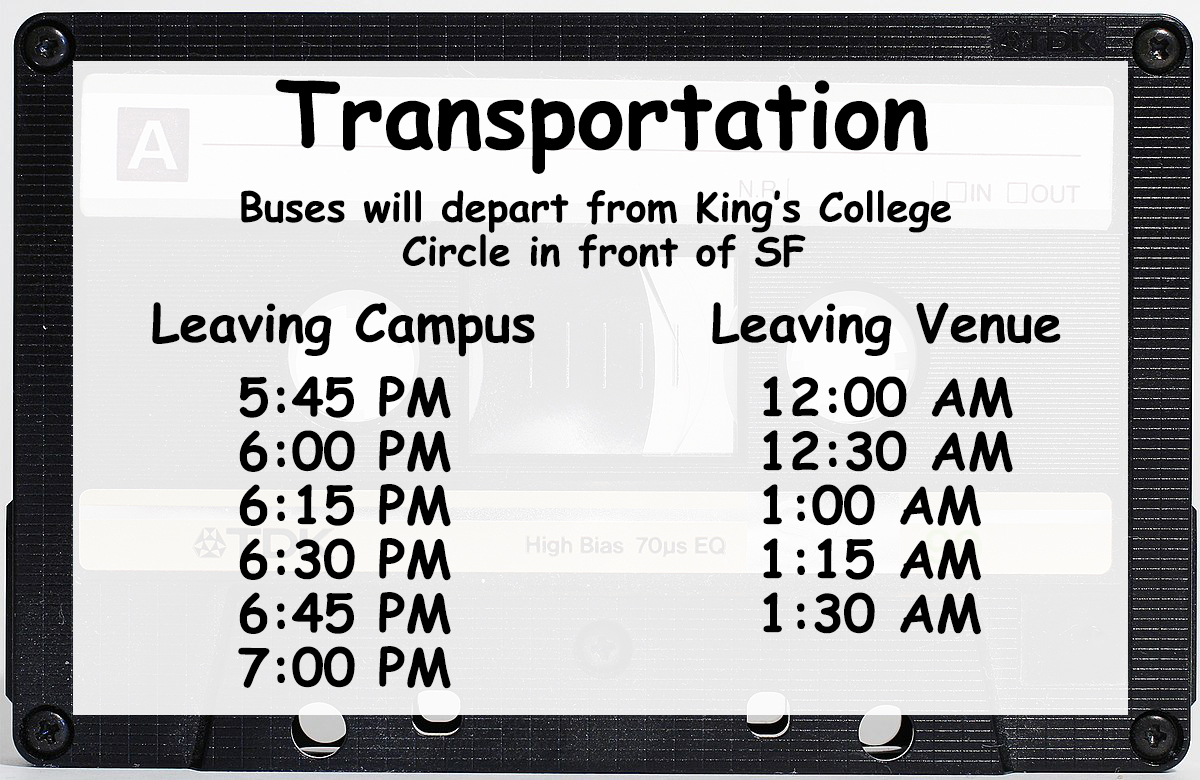
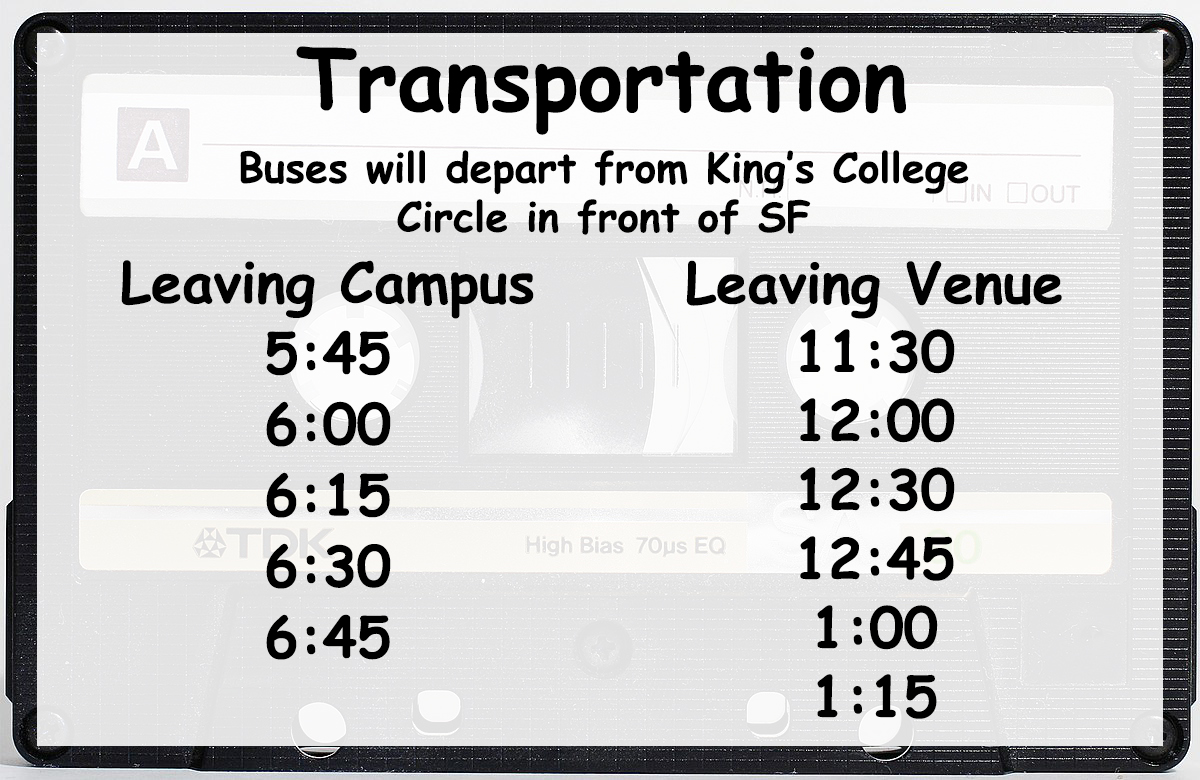
menu and bus updates

Changed region(s): [[0.0308, 0.0308, 0.9867, 0.9538]]

diff --git a/css/landing.css b/css/landing.css
@@ -1,5 +1,5 @@
 #title1 {
-  font-family: "Times", serif;
+  font-family: "Comic Sans", serif;
   color: #2055f3;
   background-color: white;
 }
@@ -240,12 +240,12 @@
 
   }
 
-  .friends {
+  .clueless {
     height: 270px;
     width: 450px;
     float: left;
     background-size: cover;
-    background-image: url("../images/web-friends.png");
+    background-image: url("../images/web-clueless.jpg");
     background-position: center;
   }
   .will {
@@ -257,9 +257,25 @@
     background-image: url("../images/web-will-smith.jpg");
     background-position: center;
   }
+  .friends {
+    height: 270px;
+    width: 470px;
+    float: right;
+    background-size: cover;
+    background-image: url("../images/web-friends.png");
+    background-position: center;
+  }
+  .menuInfo {
+    height: 270px;
+    width: 430px;
+    float: left;
+    background-size: cover;
+    background-image: url("../images/menu.jpg");
+    background-position: center;
+  }
 
   .transport {
-    height: 270px;
+    height: 285px;
     width: 450px;
     float: left;
     background-size: cover;
@@ -273,12 +289,17 @@
   .cont2 {
     display: inline-block;
     clear: both;
+    margin-bottom: 70px;
   }
 
   .cont3 {
     display: inline-block;
     clear: both;
-    margin-top: 70px;
+    margin-bottom: 70px;
+  }
+
+  .cont4 {
+    margin-bottom: 70px;
   }
 
   .tickettitle {

diff --git a/partials/landing.html b/partials/landing.html
@@ -16,18 +16,22 @@
               <div class="clippy"></div>
             </div>
             <div class="cont2">
-              <div class="friends"></div>
+              <div class="clueless"></div>
               <div class="eventInfo">When? <br> Friday, February 16, 2018 <br> Where? <br> Eglinton Grand <br> 400 Eglinton Ave. W.</div>
             </div>
             <div class="cont3">
               <div class="will"></div>
               <div class="transport"></div>
             </div>
-
+            <div class="cont2">
+              <div class="friends"></div>
+              <div class="menuInfo"></div>
+            </div>
             <div class="cont4">
               <h2 class='tickettitle'>TICKETS SOLD OUT!</h2>
-              <h3 class='ticketinfo'>see you at the event</h3>
+              <h3 class='ticketinfo'>See you at the event!</h3>
             </div>
+
 
         </div>
 
